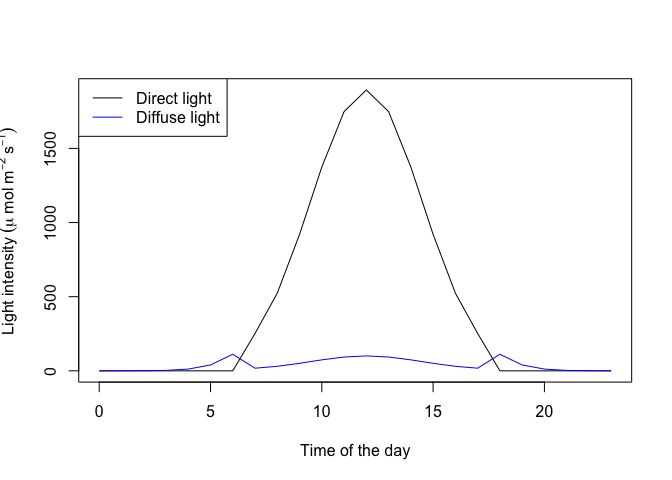
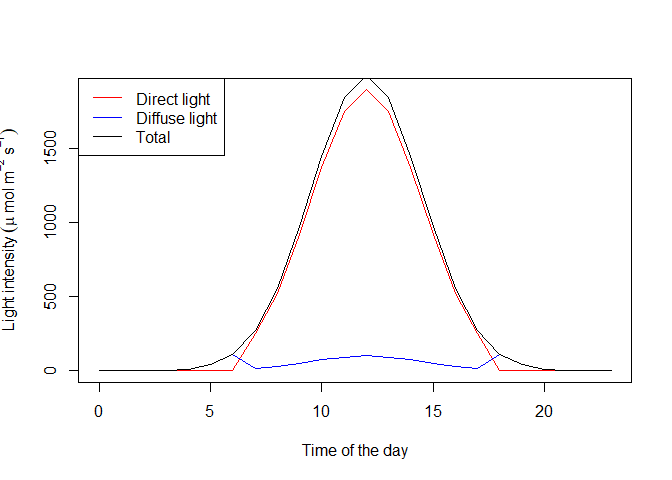
Updating the Canopy scaling doc

diff --git a/vignettes/Canopy_scaling.md b/vignettes/Canopy_scaling.md
@@ -60,9 +60,10 @@ vertical levels inside the canopy.
 
 ``` r
 # Modeling of the LAI inside the 50 levels of the canopy, with a total LAI of 6.2
-Canopy_Height=26
-Total_LAI=6.2
-LAI=seq(0,Total_LAI,Total_LAI/49)
+LAItot = 6
+nlayers=50
+dLAI=rep(6/50,50)
+LAI=cumsum(dLAI)-dLAI/2 # LAI in the midle of each layer
 
 # Modeling of the vertical structure of the Vcmax at 25 deg C (see the help of the function)
 Vcmax=f.VcmaxRef.LAI(kn=0.11,LAI=LAI,Vcmax0=70)
@@ -78,12 +79,6 @@ better to have real weather data but for the sake of this example, the
 simulated data will work as well. Here, we only model the evolution of
 light during the day, all the other meterological variables are
 considered constant which is of course a (bad) simplification.
-Several variables are needed:
-- The photosynthetic light intensity in micro mol m-2 s-1
-- The relative humidity of the air from 0 to 100
-- The ambient temperature in degree C
-- The canopy temperature in degree C
-- The wind speed in m s-1
 
 ``` r
 ##Simulation of weather data
@@ -102,10 +97,43 @@ Then a two stream radiation interception model is used to calculate the
 light levels inside the cnaopy.
 
 ``` r
-canopy=f.canopy.interception(meteo_hourly=meteo_hourly,lat = 9.2801048,t.d = 0:23,DOY = 60,n_layers = 50,Height = Canopy_Height,LAI = Total_LAI)
+lat=9.2801048
+t.d = 0:23
+DOY = 60
+
+canopy=f.canopy.interception(meteo_hourly=meteo_hourly,lat = lat,t.d = t.d,DOY = DOY,nlayers = nlayers,dLAI = dLAI)
 ```
 
-![](Canopy_scaling_files/figure-gfm/unnamed-chunk-3-1.png)<!-- -->![](Canopy_scaling_files/figure-gfm/unnamed-chunk-3-2.png)<!-- -->
+![](Canopy_scaling_files/figure-gfm/unnamed-chunk-3-1.png)<!-- -->
+
+    ## [1] "Radiation model for a total LAI of  6"
+    ## [1] "Radiation model for a total LAI of  6"
+    ## [1] "Radiation model for a total LAI of  6"
+    ## [1] "Radiation model for a total LAI of  6"
+    ## [1] "Radiation model for a total LAI of  6"
+    ## [1] "Radiation model for a total LAI of  6"
+    ## [1] "Radiation model for a total LAI of  6"
+    ## [1] "Radiation model for a total LAI of  6"
+    ## [1] "Radiation model for a total LAI of  6"
+    ## [1] "Radiation model for a total LAI of  6"
+    ## [1] "Radiation model for a total LAI of  6"
+    ## [1] "Radiation model for a total LAI of  6"
+    ## [1] "Radiation model for a total LAI of  6"
+    ## [1] "Radiation model for a total LAI of  6"
+    ## [1] "Radiation model for a total LAI of  6"
+    ## [1] "Radiation model for a total LAI of  6"
+    ## [1] "Radiation model for a total LAI of  6"
+    ## [1] "Radiation model for a total LAI of  6"
+    ## [1] "Radiation model for a total LAI of  6"
+    ## [1] "Radiation model for a total LAI of  6"
+    ## [1] "Radiation model for a total LAI of  6"
+    ## [1] "Radiation model for a total LAI of  6"
+    ## [1] "Radiation model for a total LAI of  6"
+    ## [1] "Radiation model for a total LAI of  6"
+
+![](Canopy_scaling_files/figure-gfm/unnamed-chunk-3-2.png)<!-- -->![](Canopy_scaling_files/figure-gfm/unnamed-chunk-3-3.png)<!-- -->![](Canopy_scaling_files/figure-gfm/unnamed-chunk-3-4.png)<!-- -->
+
+## Simulation of the GPP without leaf energy budget
 
 Finally, we calculate the GPP and transpiration of the canopy:
 
@@ -118,8 +146,8 @@ canopy_gasEx=f.GPP(TBM = "FATES",meteo_hourly =meteo_hourly,
 
 ![](Canopy_scaling_files/figure-gfm/unnamed-chunk-4-1.png)<!-- -->![](Canopy_scaling_files/figure-gfm/unnamed-chunk-4-2.png)<!-- -->
 
-    ## [1] "GPP =  2146.81520818625 g CO2 m-2 Ground Y-1"
-    ## [1] "ET =  964.192951390878 L H20 m-2 Ground Y-1"
+    ## [1] "GPP =  2006.54477690822 g CO2 m-2 Ground Y-1"
+    ## [1] "ET =  966.255981802251 L H20 m-2 Ground Y-1"
 
 ## References
 
